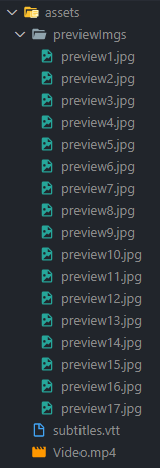
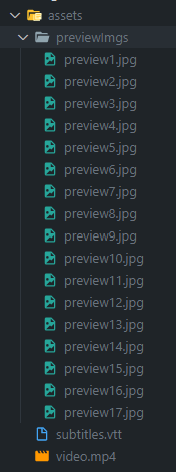
Change the video name to video.mp4 in the instructions

Changed region(s): [[0.1562, 0.0, 0.9062, 0.9872], [0.0312, 0.0, 0.125, 0.0598], [0.0938, 0.0598, 0.1562, 0.0897]]

diff --git a/README.md b/README.md
@@ -10,12 +10,12 @@ You can play any video that you want, just follow the instructions below 👇
 
 1. Start by forking the repository and clone it to your machine, clone instructions [here](#clone-repository)
 1. Create a folder called `assets` in the root of the directory
-1. Add a `.mp4` file in the root of that new folder
+1. Copy the video that you want to use and rename it to `video.mp4`
    -  If you have subtitles, name the file to `subtitles.vtt` and add it into the same folder
 1. Download [ffmpeg](https://ffmpeg.org/download.html) so you be able to run the next command
 1. Open terminal and execute the following command
    ```bash
-   ffmpeg -i assets/{change_with_your_video_name}.mp4 -vf fps=1/10,scale=120:-1 assets/previewImgs/preview%d.jpg
+   ffmpeg -i assets/video.mp4 -vf fps=1/10,scale=120:-1 assets/previewImgs/preview%d.jpg
    ```
 1. Open the app in the browser following this steps:
    - Expand `src` directory
@@ -30,7 +30,7 @@ You can play any video that you want, just follow the instructions below 👇
 ### `ffmpeg`
 Framework that decode, encode, transcode, mux, demux, stream, filter and play pretty much anything that humans and machines have created. Read the official documentation [here](https://ffmpeg.org/about.html).
 
-### `-i assets/{change_with_your_video_name}.mp4`
+### `-i assets/video.mp4`
 Set the input as our video.
 
 ### `-vf`
